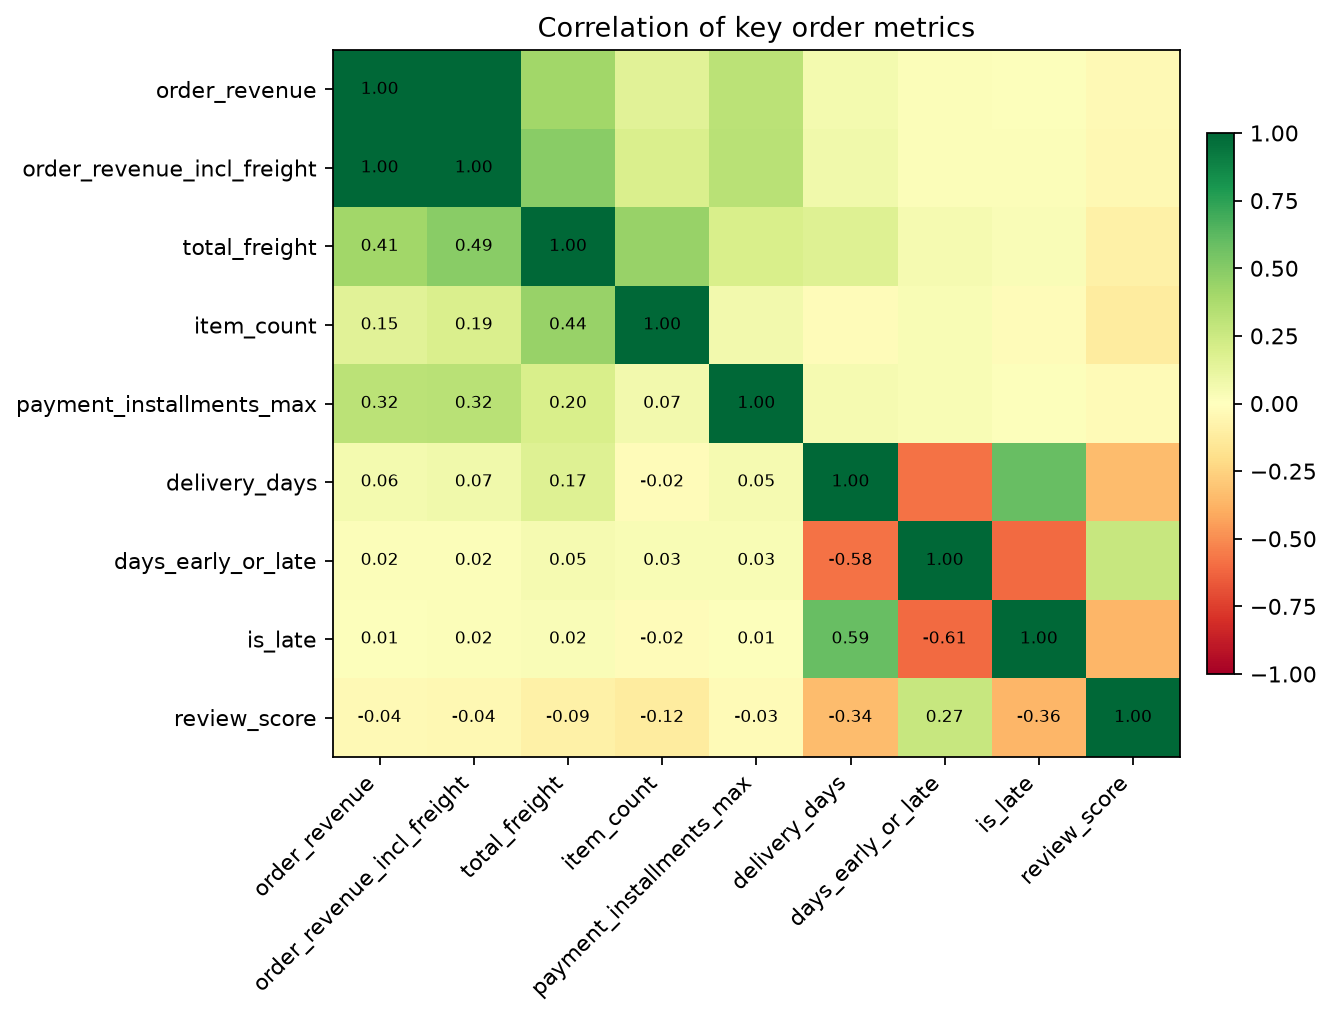
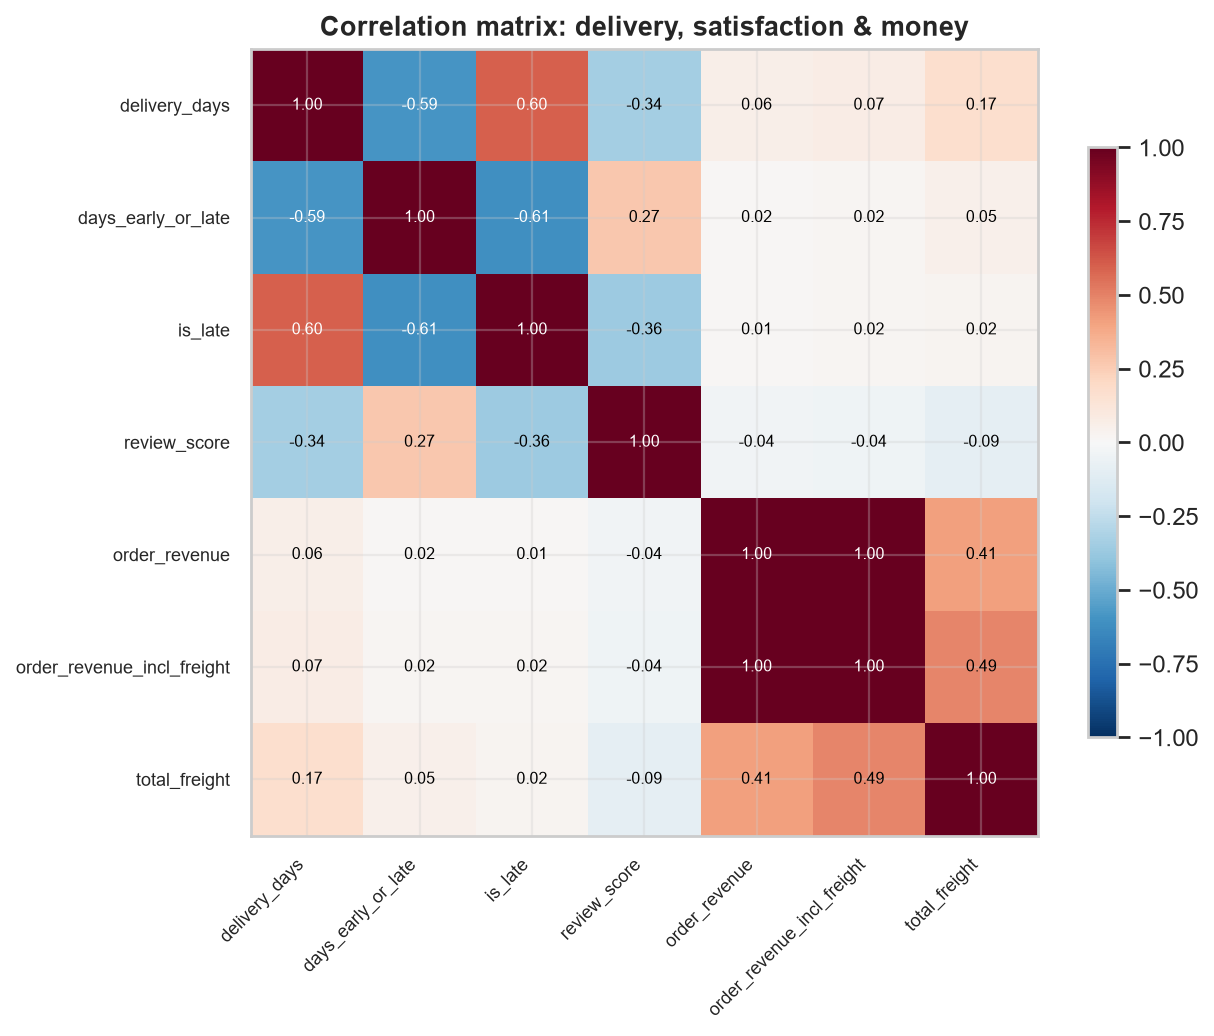
feat: delivery performance + H1 satisfaction section, save viz_01-03

diff --git a/04_Python/build_full_analysis_nb.py b/04_Python/build_full_analysis_nb.py
@@ -502,6 +502,109 @@ plt.tight_layout(); plt.show()
 """))
 
 # --------------------------------------------------------------------------- #
+# SECTION 9 - DELIVERY PERFORMANCE & SATISFACTION
+# --------------------------------------------------------------------------- #
+cells.append(md(r"""
+## 9. Delivery performance & satisfaction
+
+On-time vs late rates, delivery-time distribution, the late-delivery impact on
+review scores, and the correlation between delivery speed and money metrics.
+**Saves `viz_01`, `viz_02`, `viz_03`**.
+"""))
+
+cells.append(code(r"""
+late_rate = m["is_late"].mean()
+print(f"Late delivery rate: {late_rate:.2%}")
+print(f"Avg delivery time: {m['delivery_days'].mean():.2f} days")
+print(f"Median delivery time: {m['delivery_days'].median():.1f} days")
+means = m.groupby("is_late").agg(
+    score=("review_score", "mean"),
+    revenue=("order_revenue", "mean"),
+    rev_incl=("order_revenue_incl_freight", "mean"),
+    freight=("total_freight", "mean"),
+)
+print("\nOn-time (0) vs late (1):")
+print(means.to_string())
+"""))
+
+cells.append(code(r"""
+fig, ax = plt.subplots(figsize=(9.5, 4.5))
+ax.hist(m["delivery_days"], bins=50, color=GRAY, alpha=0.7)
+ax.axvline(m["delivery_days"].mean(), color=RED, ls="--", label="mean")
+ax.axvline(m["delivery_days"].median(), color=NAVY, ls="--", label="median")
+ax.set_xlabel("Delivery days"); ax.set_ylabel("Orders")
+ax.set_title("Delivery-time distribution (right-skewed, mean 12.1d > median 11d)")
+ax.legend()
+savefig("viz_02_score_by_delivery_bucket.png")
+plt.tight_layout(); plt.show()
+"""))
+
+cells.append(code(r"""
+d = m.copy()
+d["bucket"] = pd.cut(d["delivery_days"], bins=[0, 5, 10, 15, 20, 30, 60, d["delivery_days"].max()])
+b = d.groupby("bucket", observed=True).agg(
+    orders=("order_id", "size"),
+    score=("review_score", "mean"),
+    share=("order_id", lambda s: s.size / len(d)),
+).reset_index()
+b["score"] = b["score"].round(2)
+print(b.to_string())
+fig, ax = plt.subplots(figsize=(9.5, 4.5))
+ax.bar(b["bucket"].astype(str), b["score"], color=dl.PALETTE["info"])
+ax.set_title("Review score by delivery bucket — late (>15d) scores drop ~1 point")
+ax.set_xlabel("Delivery days bucket"); ax.set_ylabel("Mean review score")
+plt.tight_layout(); plt.show()
+"""))
+
+cells.append(code(r"""
+fig, axes = plt.subplots(1, 2, figsize=(11, 4.2))
+axes[0].scatter(m["delivery_days"], m["review_score"], s=2, alpha=0.15, c=GRAY)
+axes[0].set_xlabel("Delivery days"); axes[0].set_ylabel("Review score")
+axes[0].set_title("Delivery days vs score (r ≈ {:.2f})".format(m[["delivery_days","review_score"]].corr().iloc[0,1]))
+axes[1].scatter(m["delivery_days"], m["order_revenue"], s=2, alpha=0.15, c=GRAY)
+axes[1].set_xlabel("Delivery days"); axes[1].set_ylabel("Order revenue (R$)")
+axes[1].set_title("Delivery days vs revenue (r ≈ {:.2f})".format(m[["delivery_days","order_revenue"]].corr().iloc[0,1]))
+plt.tight_layout(); plt.show()
+"""))
+
+cells.append(code(r"""
+corr = m[["delivery_days", "days_early_or_late", "is_late", "review_score",
+          "order_revenue", "order_revenue_incl_freight", "total_freight"]].corr()
+fig, ax = plt.subplots(figsize=(8, 6.5))
+im = ax.imshow(corr.values, cmap="RdBu_r", vmin=-1, vmax=1)
+ax.set_xticks(range(len(corr.columns)), corr.columns, rotation=45, ha="right", fontsize=8)
+ax.set_yticks(range(len(corr.columns)), corr.columns, fontsize=8)
+for i in range(len(corr.columns)):
+    for j in range(len(corr.columns)):
+        ax.text(j, i, f"{corr.values[i, j]:.2f}", ha="center", va="center", fontsize=7,
+                color="white" if abs(corr.values[i, j]) > 0.5 else "black")
+ax.set_title("Correlation matrix: delivery, satisfaction & money")
+fig.colorbar(im, shrink=0.75)
+savefig("viz_01_correlation_heatmap.png")
+plt.tight_layout(); plt.show()
+"""))
+
+cells.append(code(r"""
+# satisfaction gap: review score vs delivery performance (H1)
+on = m[m["is_late"] == 0]["review_score"]
+la = m[m["is_late"] == 1]["review_score"]
+gap = on.mean() - la.mean()
+print(f"H1 check — on-time mean score {on.mean():.2f} vs late mean score {la.mean():.2f}")
+print(f"Satisfaction gap: {gap:.2f} points (reference ~1.73)")
+# quick manual sanity: correlation between is_late and score
+print(f"Point-biserial-style corr (is_late vs score): {m['is_late'].corr(m['review_score']):.3f}")
+"""))
+
+cells.append(code(r"""
+fig, ax = plt.subplots(figsize=(9.5, 4.5))
+ax.boxplot([on, la], tick_labels=["On-time", "Late"])
+ax.set_ylabel("Review score")
+ax.set_title("Review-score distribution: on-time vs late (H1)")
+savefig("viz_03_on_vs_late_score.png")
+plt.tight_layout(); plt.show()
+"""))
+
+# --------------------------------------------------------------------------- #
 # ASSEMBLY - later sections append above this line
 # --------------------------------------------------------------------------- #
 def build():
